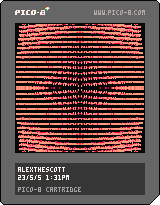
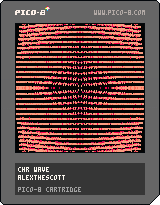
fix chr_wave png, html, README

Changed region(s): [[0.125, 0.7902, 0.4375, 0.878]]

diff --git a/chr_wave/index.html b/chr_wave/index.html
@@ -101,7 +101,7 @@
     but I wanted this template to be easy to use "manually" and for me it works fine
     to have a single PNG icon at 200x200. (200x200 is the minimum for facebok-sharing to use the og:image as thumbnail)
   -->
-  <title>Block Cloud</title>                                               <!-- <= WEBSITE TITLE -->
+  <title>chr wave</title>                                               <!-- <= WEBSITE TITLE -->
   <meta name="description" content="twitter.com/alexthescott">                    <!-- <= SITE DESCRIPTION as seen by web-search-engines -->
 
   <!-- Info as seen by sharing apps like WhatsApp or Facebook, so they can show a preview-image and description when you share the URL -->
@@ -157,7 +157,7 @@
     canvas.height = window.innerHeight;
   </script>
 
-  <script async="" type="text/javascript" src="block_cloud.js"></script>       <!-- <= INCLUDES YOUR cart.js FILE -->
+  <script async="" type="text/javascript" src="chr_wave.js"></script>       <!-- <= INCLUDES YOUR cart.js FILE -->
 </div>
 
 </body></html>

diff --git a/chr_wave/README.md b/chr_wave/README.md
@@ -4,9 +4,9 @@
 <img src='chr_wave.png'></img>
 
 ``` Lua
+-- chr wave
 -- alexthescott
 -- 23/5/5 1:31pm
--- chr wave
 
 poke(24364,7)t=0p={}for x=0,16do?"\^!5f100☉8🅾◆"
 cls()for y=0,16do
